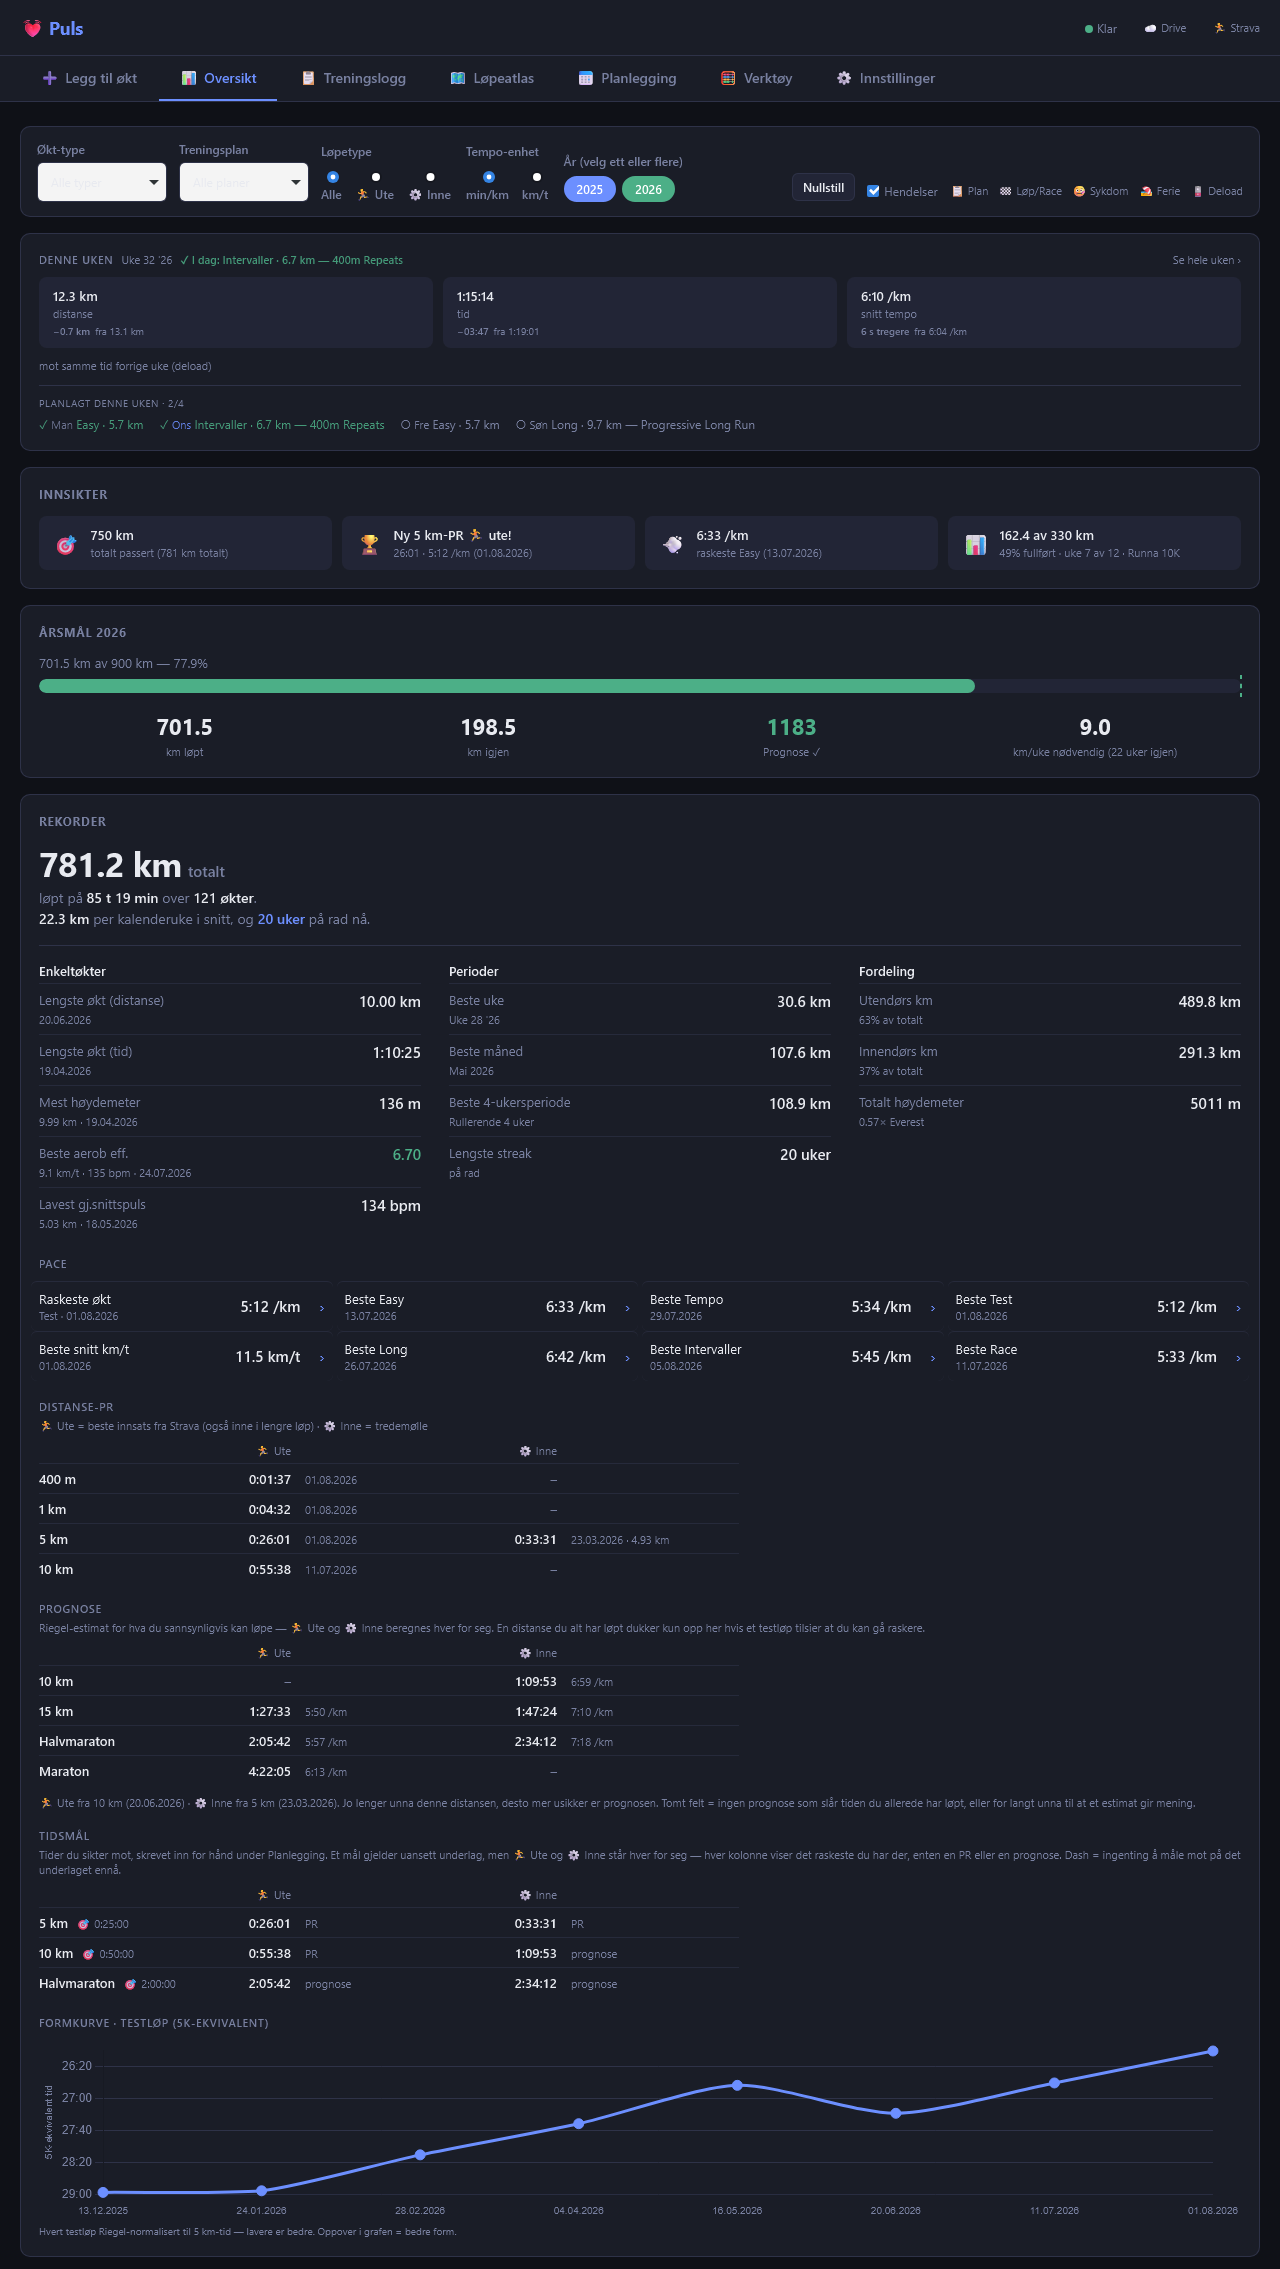
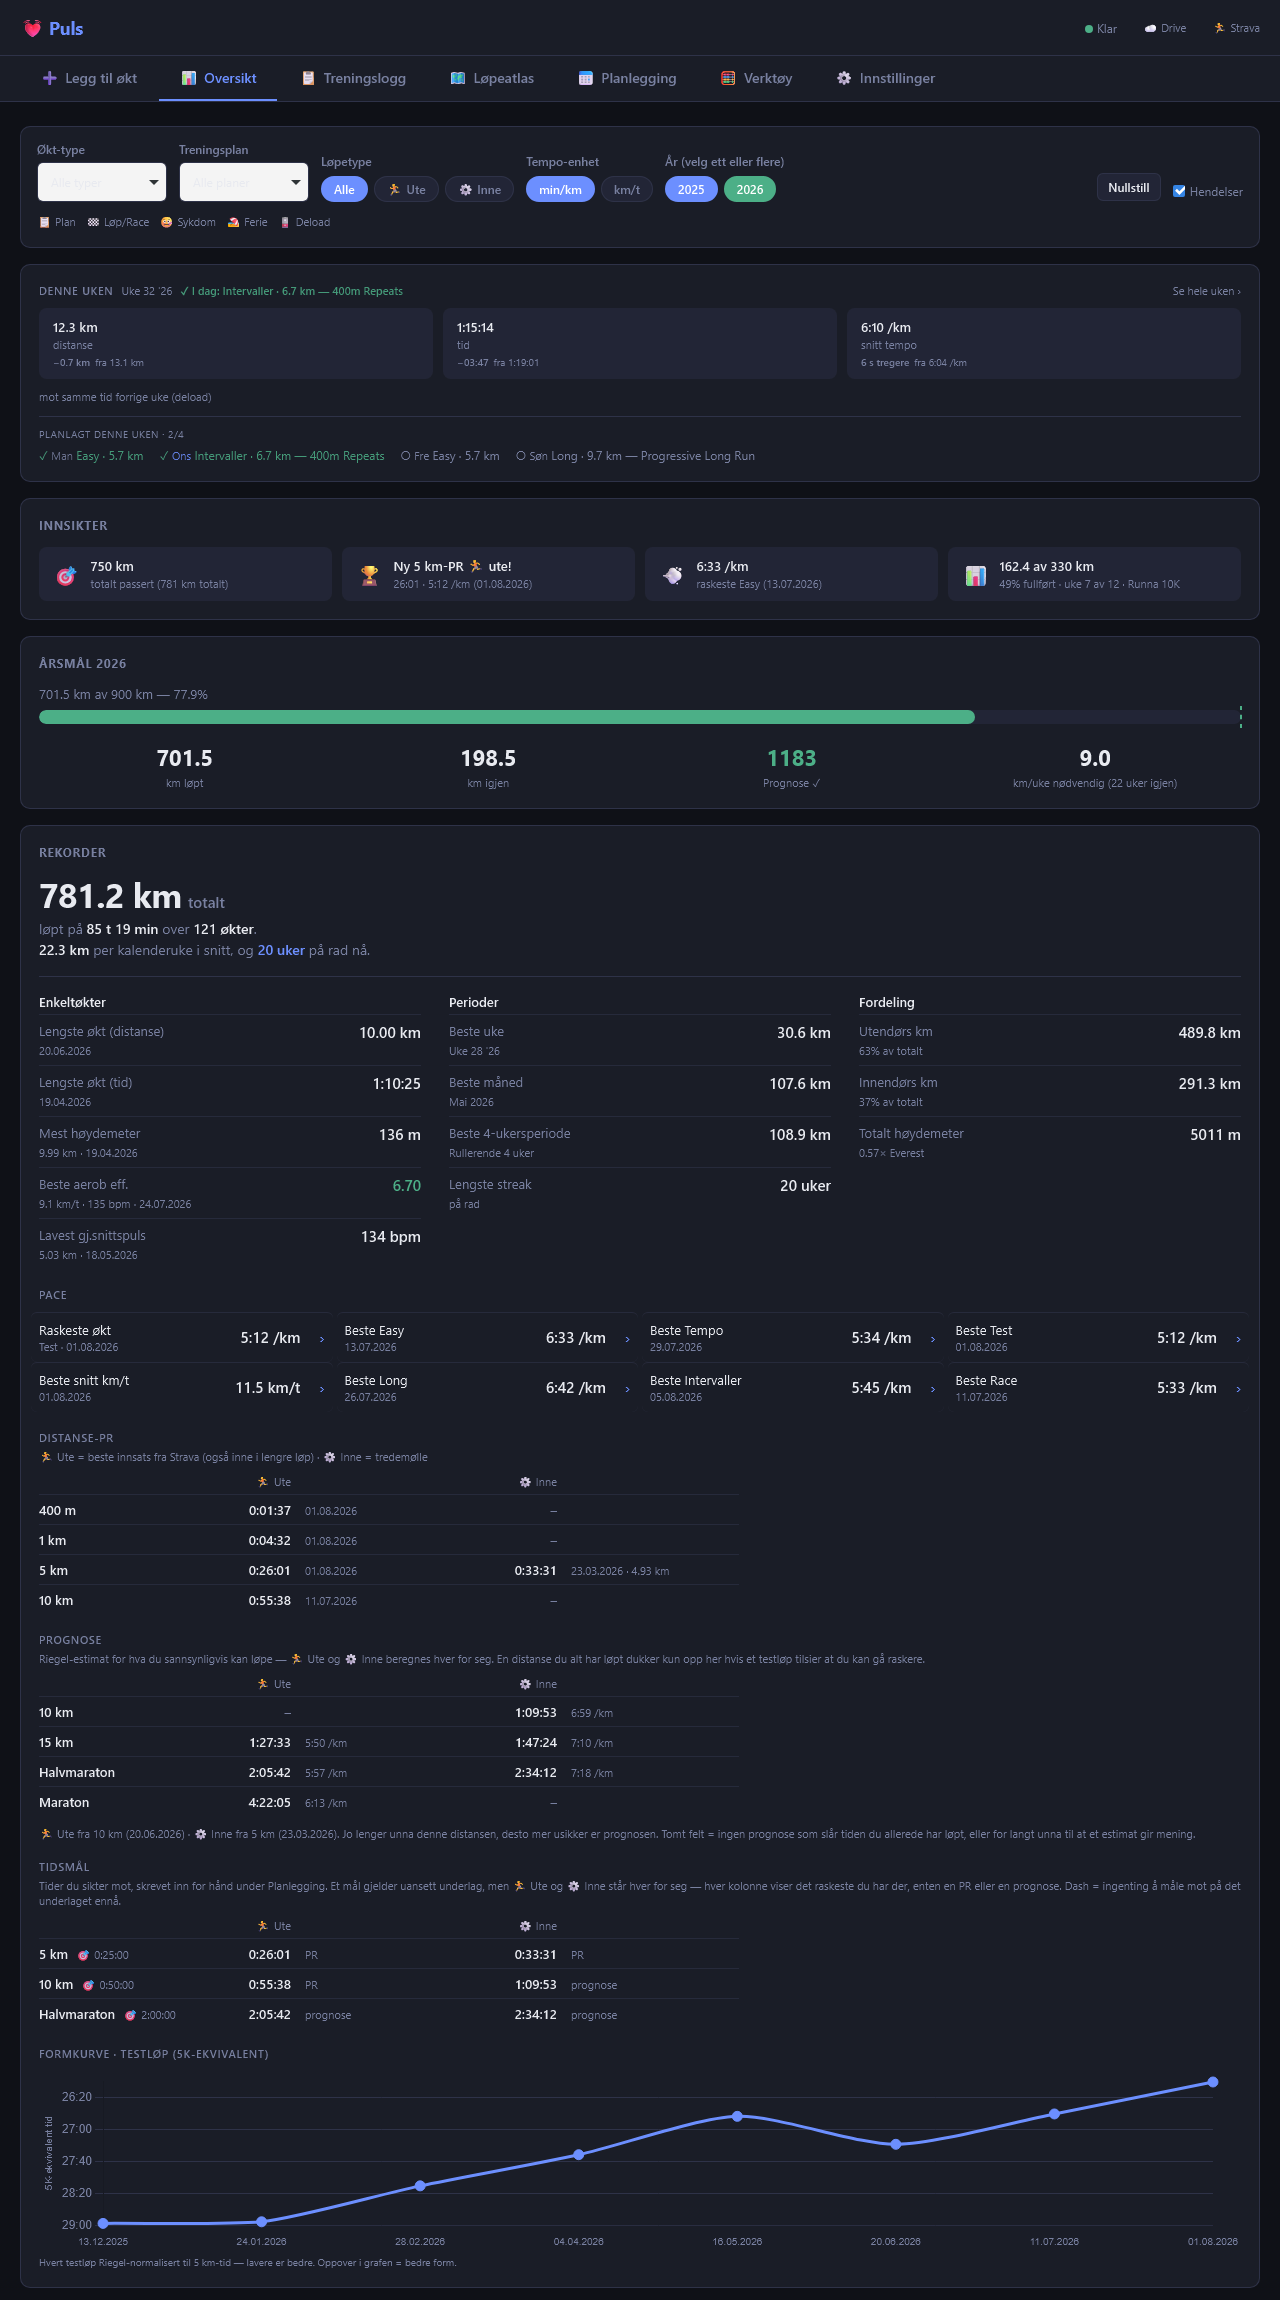
Løpetype and Tempo-enhet were the last radio buttons among the app's toggles
Everything beside them, År in the same bar and every chart toggle, is a pill; these two were
radio buttons, and it stood out to him. Now pills too, on desktop and phone. They are buttons
rather than spans, so Tab and Enter/Space still reach them as they reached the radios, and
aria-pressed carries the state a radio's checked did. Nullstill resets both groups.

test_charts: no radios left, a click really filters (Inne empties the weekly table of an
all-outdoor fixture), the keyboard presses a pill, Nullstill restores both groups and the
table, and the pills are the År pills' height.

diff --git a/puls.html b/puls.html
@@ -185,6 +185,7 @@
   .dash-filter-bar { position: sticky; top: 0; z-index: 99; display: flex; gap: 12px; flex-wrap: wrap; align-items: flex-end; background: var(--surface); border: 1px solid var(--border); border-radius: var(--radius); padding: 14px 16px; margin-bottom: 16px; }
   .year-pill { display: inline-flex; align-items: center; padding: 4px 12px; border-radius: 20px; font-size: 12px; font-weight: 600; cursor: pointer; border: 1.5px solid var(--border); background: var(--surface2); color: var(--muted); transition: all .15s; user-select: none; }
   .year-pill.active { background: var(--accent); border-color: var(--accent); color: #fff; }
+  .df-pills { display: flex; flex-wrap: wrap; gap: 6px; padding-top: 2px; }
 
   /* Insight cards */
   #insightContent { display:flex; flex-wrap:wrap; gap:10px; }
@@ -1087,19 +1088,22 @@
         <option>Egentrening</option><option>Runna</option>
       </select>
     </div>
+    <!-- Pills like År beside them and every chart toggle (his pick, 2026-09-27): these two were the
+         only radio buttons left among the app's toggles. Buttons, not spans, so Tab and Enter/Space
+         reach them the way they reached the radios. -->
     <div class="form-group">
       <label>Løpetype</label>
-      <div class="muted-sm" style="display:flex;gap:10px;align-items:center;padding-top:6px;">
-        <label style="cursor:pointer"><input type="radio" name="dfLopetype" value="" checked> Alle</label>
-        <label style="cursor:pointer"><input type="radio" name="dfLopetype" value="utendors"> 🏃 Ute</label>
-        <label style="cursor:pointer"><input type="radio" name="dfLopetype" value="treadmill"> ⚙ Inne</label>
+      <div class="df-pills" id="dfVenuePills" role="group" aria-label="Løpetype">
+        <button type="button" class="year-pill active" data-venue="" aria-pressed="true">Alle</button>
+        <button type="button" class="year-pill" data-venue="utendors" aria-pressed="false">🏃 Ute</button>
+        <button type="button" class="year-pill" data-venue="treadmill" aria-pressed="false">⚙ Inne</button>
       </div>
     </div>
     <div class="form-group">
       <label>Tempo-enhet</label>
-      <div class="muted-sm" style="display:flex;gap:10px;align-items:center;padding-top:6px;">
-        <label style="cursor:pointer"><input type="radio" name="dfPaceUnit" value="pace" checked> min/km</label>
-        <label style="cursor:pointer"><input type="radio" name="dfPaceUnit" value="kmh"> km/t</label>
+      <div class="df-pills" id="dfUnitPills" role="group" aria-label="Tempo-enhet">
+        <button type="button" class="year-pill active" data-unit="pace" aria-pressed="true">min/km</button>
+        <button type="button" class="year-pill" data-unit="kmh" aria-pressed="false">km/t</button>
       </div>
     </div>
     <div class="form-group" style="flex:1;min-width:180px">
@@ -6880,6 +6884,16 @@ const DashFilter = {
     });
   }
 };
+
+// A pill group with one choice (Løpetype, Tempo-enhet): the class carries the look, aria-pressed
+// what it means — the radios they replaced announced their state, and these must too.
+function setPills(groupId, key, value) {
+  document.querySelectorAll(`#${groupId} .year-pill`).forEach(p => {
+    const on = p.dataset[key] === value;
+    p.classList.toggle('active', on);
+    p.setAttribute('aria-pressed', String(on));
+  });
+}
 
 const YEAR_COLORS = ['#6c8fff','#4caf87','#f0c060','#ff6c8f','#c07af0','#5bc8f5','#f09060'];
 
@@ -13658,13 +13672,14 @@ document.addEventListener('DOMContentLoaded', () => {
   });
 
   // Global pace unit toggle — affects all pace charts
-  document.querySelectorAll('input[name="dfPaceUnit"]').forEach(radio => {
-    radio.addEventListener('change', () => {
-      paceUnit = radio.value;
-      const s = DashFilter.get(Store.data.sessions);
-      renderPaceWeekChart(s);
-      renderWeekNow(Store.data.sessions);   // its snitt-tempo tile honours the unit too
-    });
+  document.getElementById('dfUnitPills').addEventListener('click', e => {
+    const pill = e.target.closest('[data-unit]');
+    if (!pill || pill.dataset.unit === paceUnit) return;
+    paceUnit = pill.dataset.unit;
+    setPills('dfUnitPills', 'unit', paceUnit);
+    const s = DashFilter.get(Store.data.sessions);
+    renderPaceWeekChart(s);
+    renderWeekNow(Store.data.sessions);   // its snitt-tempo tile honours the unit too
   });
 
   [['zoneToggleWeek','week'],['zoneToggleMaaned','month']].forEach(([id, val]) => {
@@ -13767,14 +13782,20 @@ document.addEventListener('DOMContentLoaded', () => {
   document.getElementById('dfPlan').addEventListener('change', e => { DashFilter.plan = e.target.value; renderDashboard(); });
   document.getElementById('chkEvents').checked = showEventMarkers;
   document.getElementById('chkEvents').addEventListener('change', e => { showEventMarkers = e.target.checked; renderDashboard(); });
-  document.querySelectorAll('input[name="dfLopetype"]').forEach(r => r.addEventListener('change', e => { DashFilter.løpetype = e.target.value; renderDashboard(); }));
+  document.getElementById('dfVenuePills').addEventListener('click', e => {
+    const pill = e.target.closest('[data-venue]');
+    if (!pill || pill.dataset.venue === DashFilter.løpetype) return;
+    DashFilter.løpetype = pill.dataset.venue;
+    setPills('dfVenuePills', 'venue', DashFilter.løpetype);
+    renderDashboard();
+  });
   document.getElementById('btnDashReset').addEventListener('click', () => {
     DashFilter.years.clear(); DashFilter.type = ''; DashFilter.plan = ''; DashFilter.løpetype = '';
     document.getElementById('dfType').value = '';
     document.getElementById('dfPlan').value = '';
-    document.querySelector('input[name="dfLopetype"][value=""]').checked = true;
+    setPills('dfVenuePills', 'venue', '');
     paceUnit = 'pace';
-    document.querySelector('input[name="dfPaceUnit"][value="pace"]').checked = true;
+    setPills('dfUnitPills', 'unit', 'pace');
     showEventMarkers = eventMarkersDefault();
     document.getElementById('chkEvents').checked = showEventMarkers;
     aeTypeFilter = 'both';

diff --git a/tests/test_charts.py b/tests/test_charts.py
@@ -225,6 +225,42 @@ with sync_playwright() as pw:
     check("no «N løp» anywhere in either panel",
           bool(re.search(r'\d\s*løp\b', two['body'] + one['body'])), False)
 
+    # ── Løpetype and Tempo-enhet are pills, not radios (his pick, 2026-09-27) ───────────────────────
+    # They were the only radio buttons left among the app's toggles. What must survive the change is
+    # BEHAVIOUR, so a click has to filter the dashboard (asserted on the weekly table, not on
+    # DashFilter), the state has to be announced (aria-pressed, as a radio's checked state was), the
+    # keyboard has to reach them, and Nullstill has to put both groups back.
+    print("== Løpetype and Tempo-enhet are pills ==")
+    pg.set_viewport_size({"width": 1280, "height": 900})
+    pg.evaluate("() => switchTab('dash')")
+    pg.wait_for_timeout(400)
+    PRESSED = """() => ['dfVenuePills', 'dfUnitPills'].map(id =>
+      [...document.querySelectorAll(`#${id} .year-pill`)]
+        .filter(p => p.getAttribute('aria-pressed') === 'true' && p.classList.contains('active'))
+        .map(p => p.textContent.trim()))"""
+    rows = lambda: pg.locator('#weeklyBody tr').count()
+    check("no radio buttons left in the filter bar",
+          pg.evaluate("() => document.querySelectorAll('#dashFilterBar input[type=radio]').length"), 0)
+    check("defaults: exactly Alle and min/km pressed", pg.evaluate(PRESSED), [['Alle'], ['min/km']])
+    before = rows()
+    check("control: the weekly table has rows to lose", before > 0, True)
+    pg.click('#dfVenuePills [data-venue="treadmill"]')
+    pg.wait_for_timeout(400)
+    check("⚙ Inne filters the dashboard (this fixture has no belt runs)", rows(), 0)
+    check("...and is the one pressed", pg.evaluate(PRESSED)[0], ['⚙ Inne'])
+    pg.focus('#dfUnitPills [data-unit="kmh"]')
+    pg.keyboard.press("Enter")
+    pg.wait_for_timeout(300)
+    check("the keyboard reaches them: Enter on km/t presses it", pg.evaluate(PRESSED)[1], ['km/t'])
+    pg.click("#btnDashReset")
+    pg.wait_for_timeout(600)
+    check("Nullstill puts both groups back", pg.evaluate(PRESSED), [['Alle'], ['min/km']])
+    check("...and the dashboard with them", rows(), before)
+    # They should read as the År pills beside them, not merely share a class name.
+    heights = pg.evaluate("""() => ['#dfVenuePills .year-pill', '#dfYearPills .year-pill']
+        .map(s => Math.round(document.querySelector(s).getBoundingClientRect().height))""")
+    check(f"the same height as the År pills ({heights[0]} vs {heights[1]} px)", heights[0] == heights[1], True)
+
     # ── Narrow desktop windows (2026-09-27) ────────────────────────────────────────────────────────
     # A grid item's minimum width is its content's. Sko oversikt beside Ukentlig oversikt — the only
     # half-width pair; the table alone needs ~555 px — needs 835 px of grid side by side. Two columns

diff --git a/tests/test_weeknow.py b/tests/test_weeknow.py
@@ -182,10 +182,11 @@ with sync_playwright() as p:
     # ---------------------------------------------------------------- 4. pace unit
     print("== snitt tempo follows the km/t toggle ==")
     check("min/km by default", "/km" in pg.locator("#weekNowCard").inner_text(), True)
-    pg.locator('input[name="dfPaceUnit"][value="kmh"]').check()
+    # A pill since 2026-09-27 (it was a radio button).
+    pg.locator('#dfUnitPills [data-unit="kmh"]').click()
     pg.wait_for_timeout(300)
     check("switches to km/t", "km/t" in pg.locator("#weekNowCard").inner_text(), True)
-    pg.locator('input[name="dfPaceUnit"][value="pace"]').check()
+    pg.locator('#dfUnitPills [data-unit="pace"]').click()
     pg.wait_for_timeout(300)
 
     # ---------------------------------------------------------------- 5. click-through
